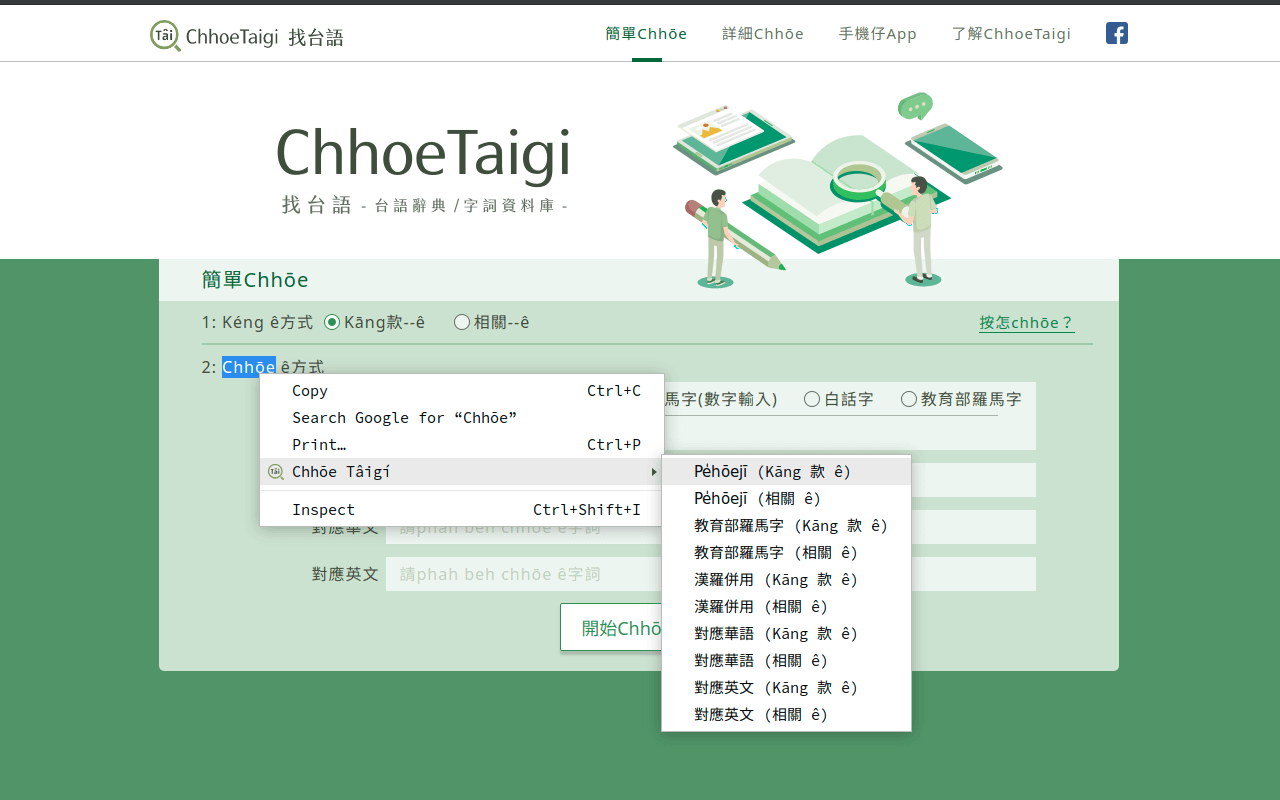
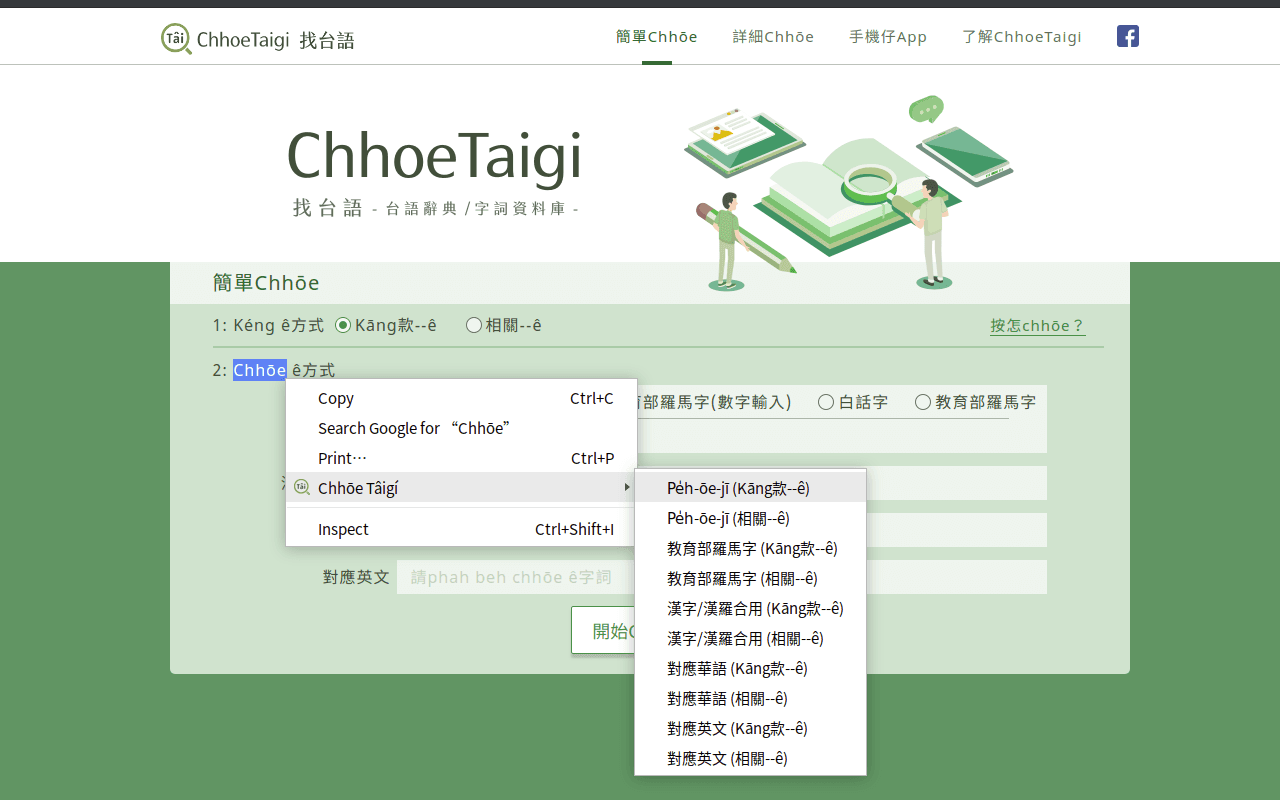
Modify menus title

Changed region(s): [[0.0, 0.0938, 1.0, 0.9688], [0.0, 0.0, 1.0, 0.0938], [0.2188, 0.1562, 0.4688, 0.2812]]

diff --git a/background.js b/background.js
@@ -1,52 +1,52 @@
 chrome.contextMenus.removeAll(function () {
     chrome.contextMenus.create({
         id: 'poj-equals',
-        title: 'Pe̍hōejī (Kāng 款 ê)',
+        title: 'Pe̍h-ōe-jī (Kāng款--ê)',
         contexts: ['selection']
     })
     chrome.contextMenus.create({
         id: 'poj-contains',
-        title: 'Pe̍hōejī (相關 ê)',
+        title: 'Pe̍h-ōe-jī (相關--ê)',
         contexts: ['selection']
     })
     chrome.contextMenus.create({
         id: 'hoalo-equals',
-        title: '教育部羅馬字 (Kāng 款 ê)',
+        title: '教育部羅馬字 (Kāng款--ê)',
         contexts: ['selection']
     })
     chrome.contextMenus.create({
         id: 'hoalo-contains',
-        title: '教育部羅馬字 (相關 ê)',
+        title: '教育部羅馬字 (相關--ê)',
         contexts: ['selection']
     })
     chrome.contextMenus.create({
         id: 'hanlo-equals',
-        title: '漢羅併用 (Kāng 款 ê)',
+        title: '漢字/漢羅合用 (Kāng款--ê)',
         contexts: ['selection']
     })
     chrome.contextMenus.create({
         id: 'hanlo-contains',
-        title: '漢羅併用 (相關 ê)',
+        title: '漢字/漢羅合用 (相關--ê)',
         contexts: ['selection']
     })
     chrome.contextMenus.create({
         id: 'hoabun-equals',
-        title: '對應華語 (Kāng 款 ê)',
+        title: '對應華語 (Kāng款--ê)',
         contexts: ['selection']
     })
     chrome.contextMenus.create({
         id: 'hoabun-contains',
-        title: '對應華語 (相關 ê)',
+        title: '對應華語 (相關--ê)',
         contexts: ['selection']
     })
     chrome.contextMenus.create({
         id: 'english-equals',
-        title: '對應英文 (Kāng 款 ê)',
+        title: '對應英文 (Kāng款--ê)',
         contexts: ['selection']
     })
     chrome.contextMenus.create({
         id: 'english-contains',
-        title: '對應英文 (相關 ê)',
+        title: '對應英文 (相關--ê)',
         contexts: ['selection']
     })
 })
